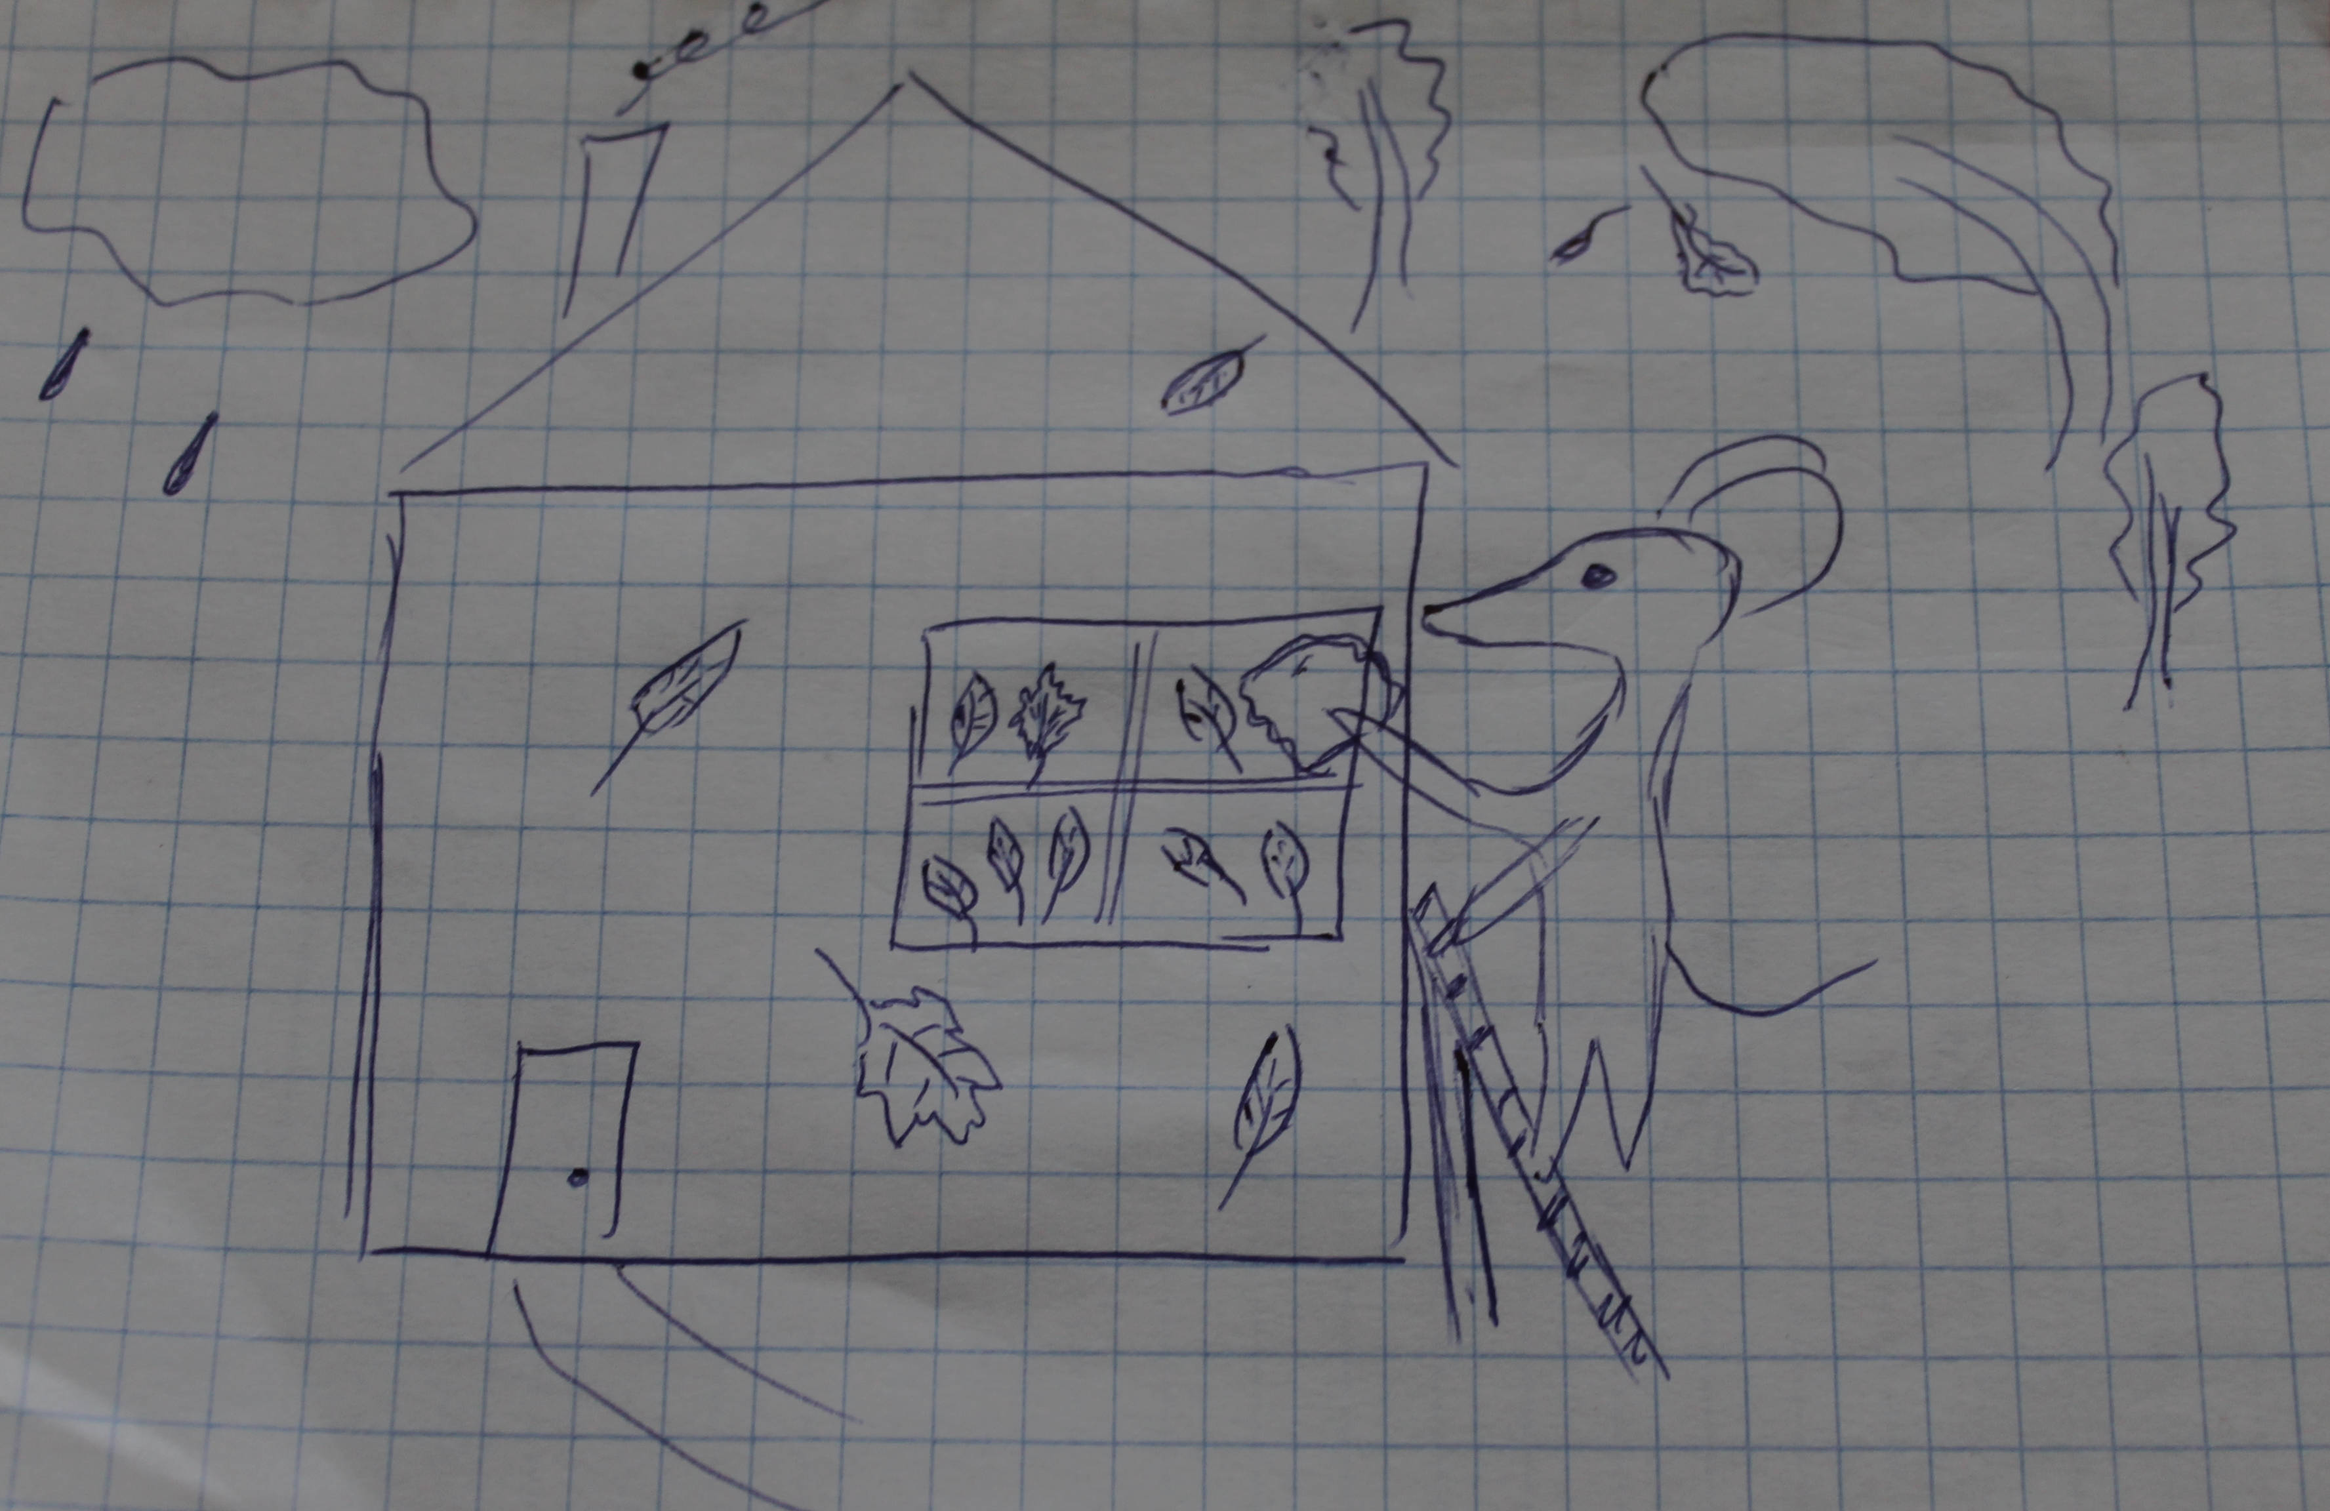
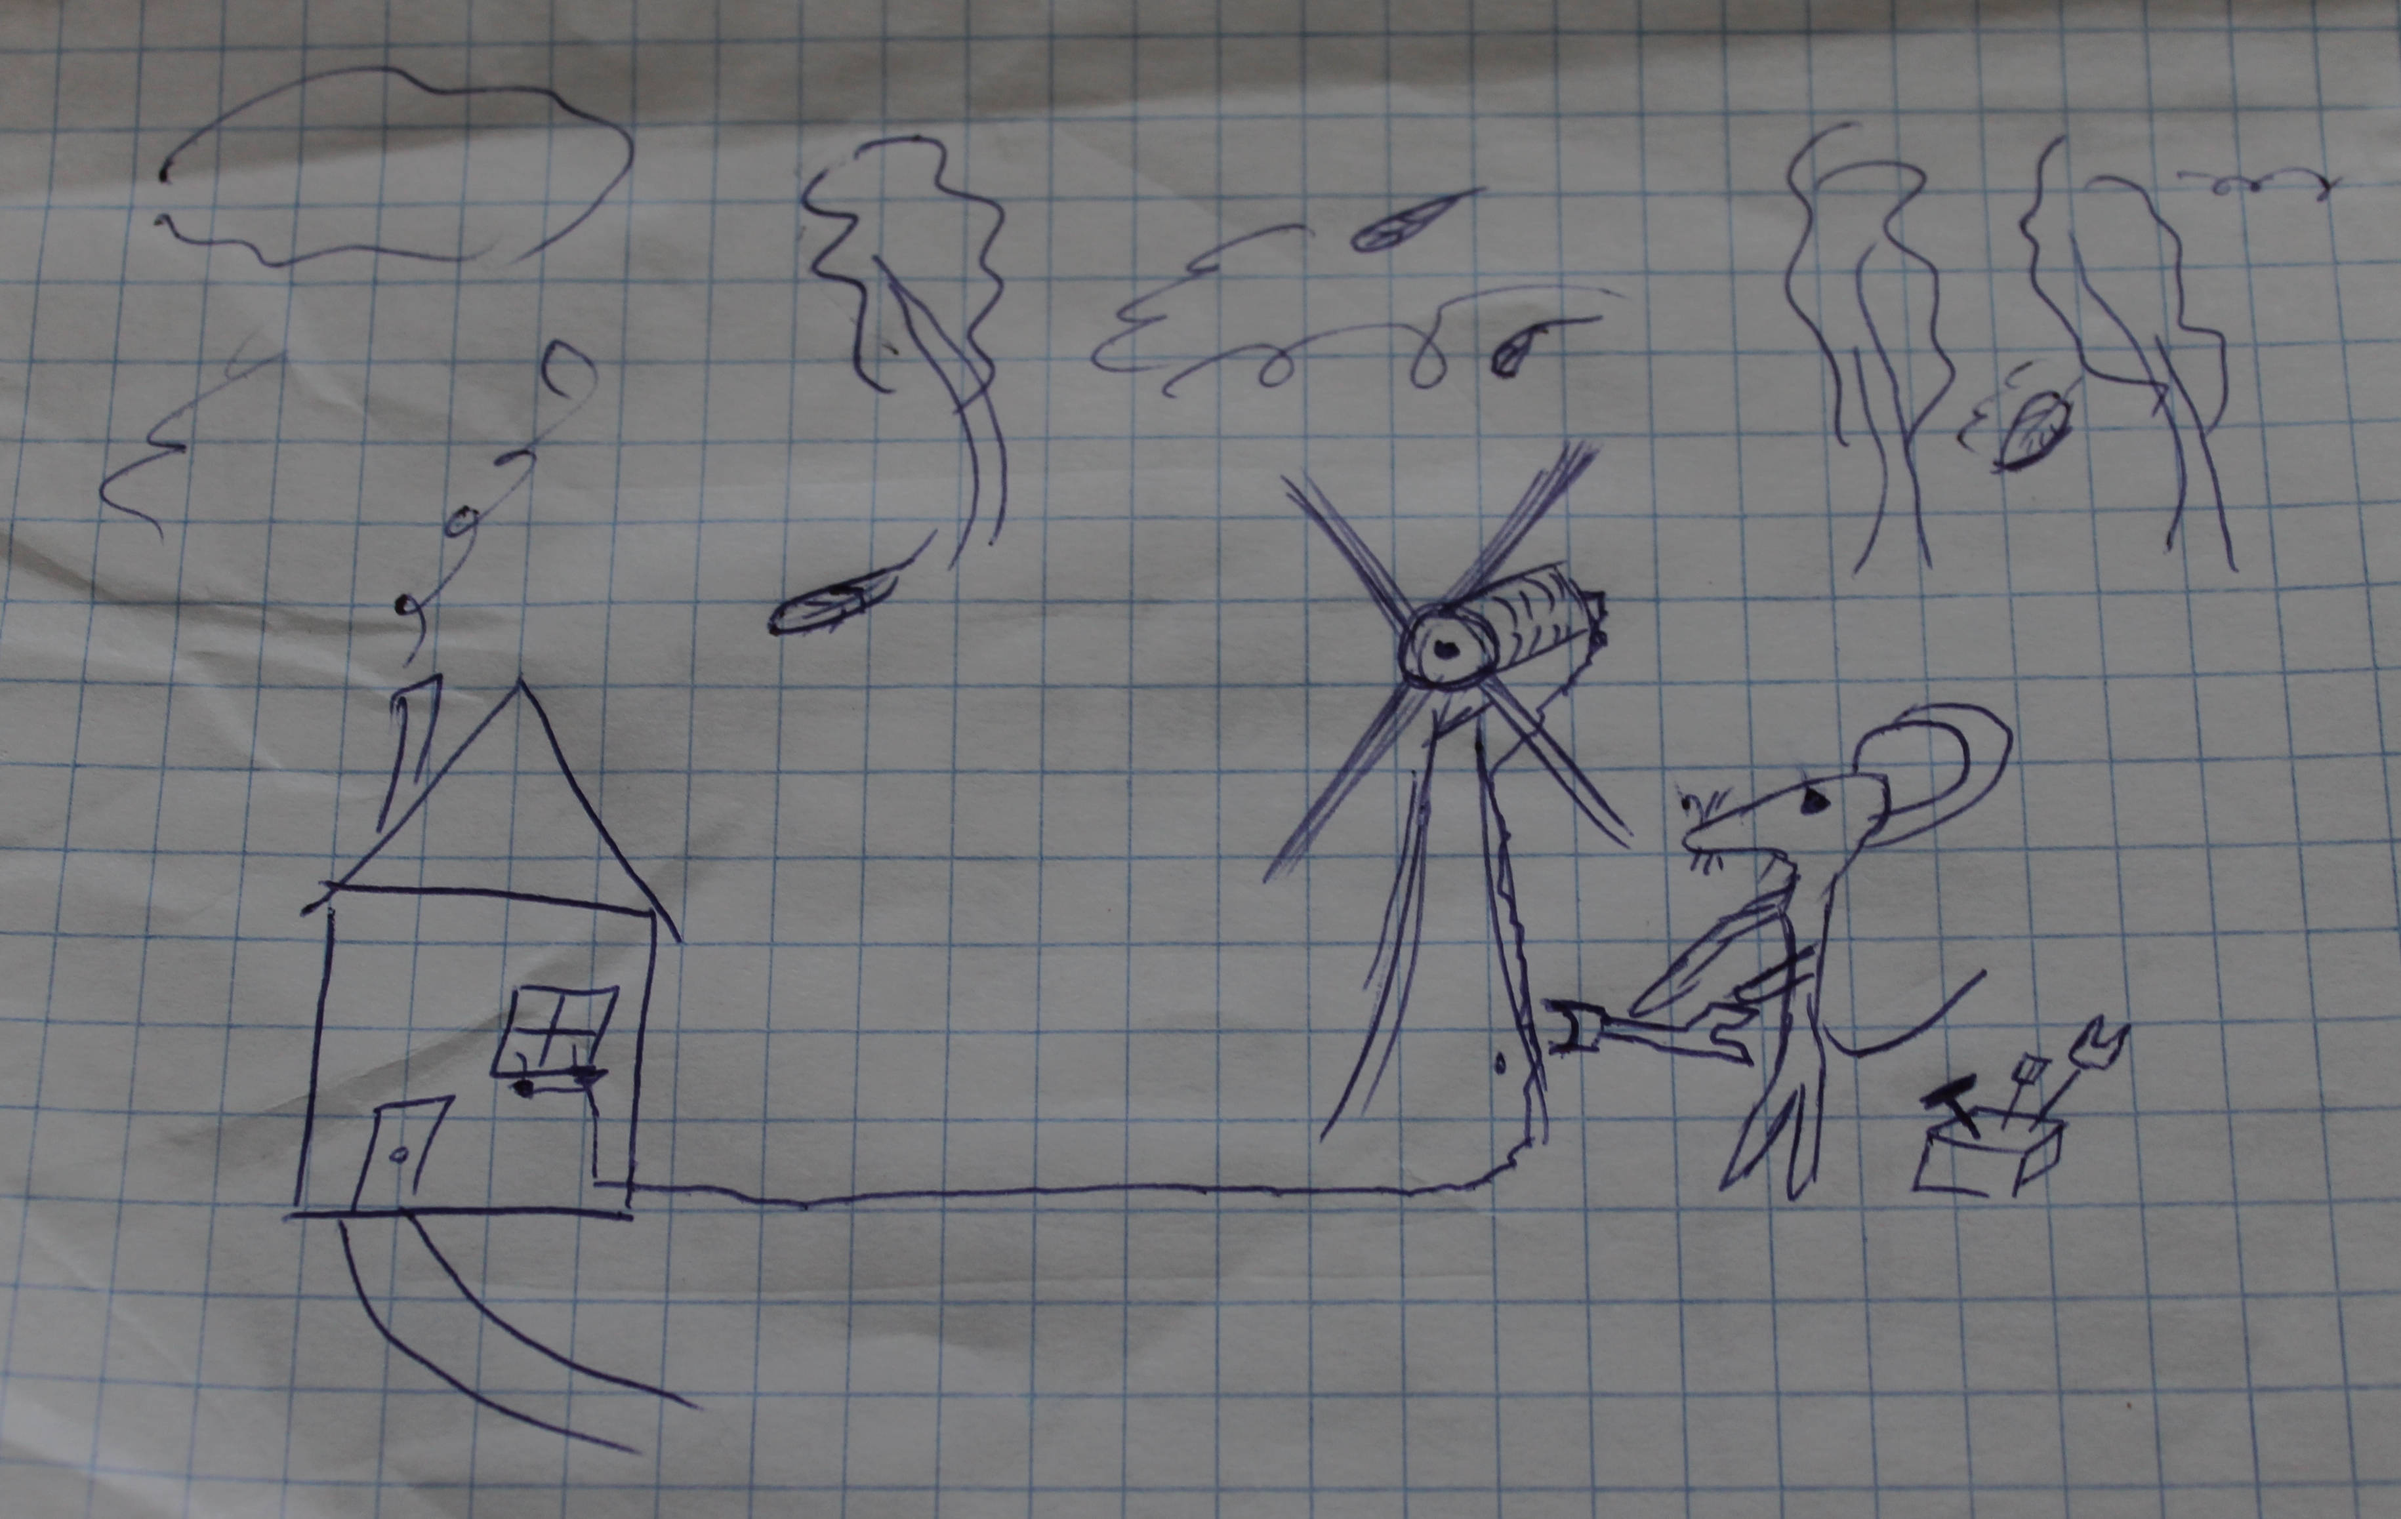
lvl 6

diff --git a/index.html b/index.html
@@ -23,7 +23,16 @@
                             {"ind":2,  "lvl":3, 'rom':'III', "imgs":11, "title":"Банановый остров"},
                             {"ind":3,  "lvl":4, 'rom':'IV', "imgs":12, "title":"Как делаются печеньки"},
                             {"ind":4,  "lvl":5, 'rom':'V', "imgs":5, "title":"Дождь"},
-                            {"ind":5,  "lvl":6, 'rom':'VI', "imgs":6, "title":"Окно в осень"},
+                            {
+                                "ind":5,  "lvl":6, 'rom':'VI', "imgs":6, "title":"Окно в осень",
+                                'text': [
+                                    'Однажды осенью Мышка пила чай с печеньками, а за окном бушевала непогода.',
+                                    'Мышка захотела налить себе ещё чая. Но нечаянно опрокинула термос. В комнате было очень темно.',
+                                    'Мышка вышла на улицу, и протёрла от листьев стекло тряпочкой. Но это, ведь, только временная мера...',
+                                    'Мышка поставила ветряк, чтобы от ветра вырабатывать электроэнергию. А провода провела к дому.',
+                                    'А дома на окно установила дворники. И теперь вопрос очистки стёкол решается одним нажатием кнопки.',
+                                ]
+                            },
                             {
                                 "ind":6,  "lvl":7, 'rom':'VII', "imgs":9, "title":"Примёрзшие печеньки",
                                 'text': [
